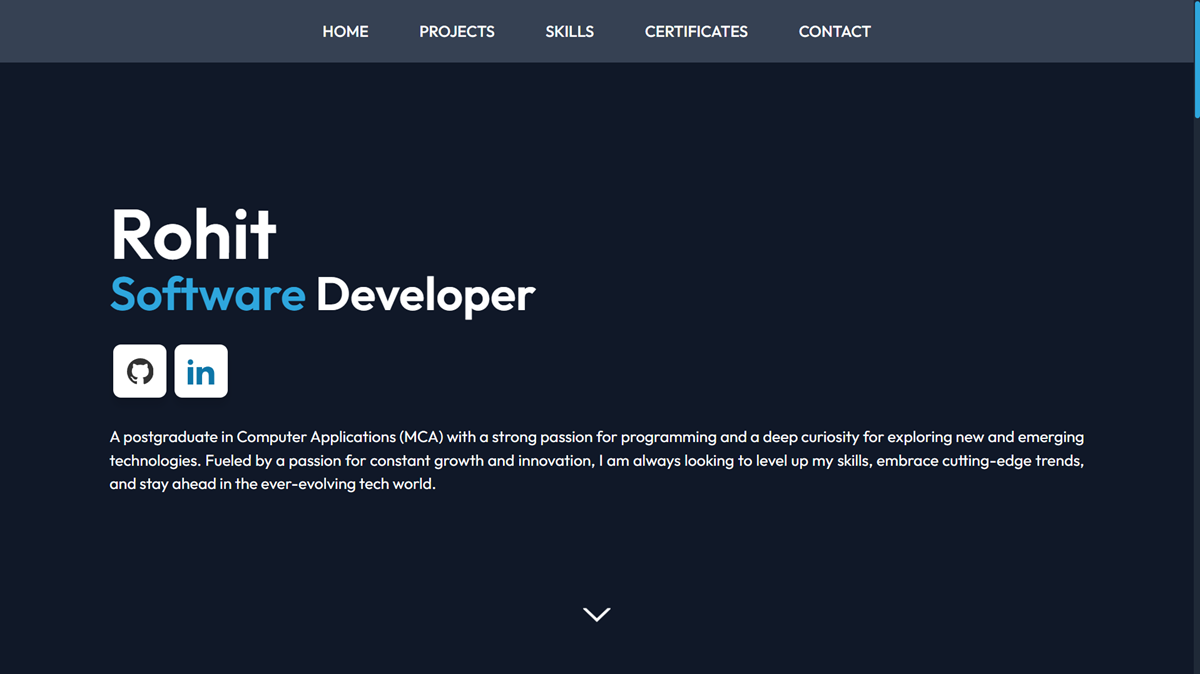
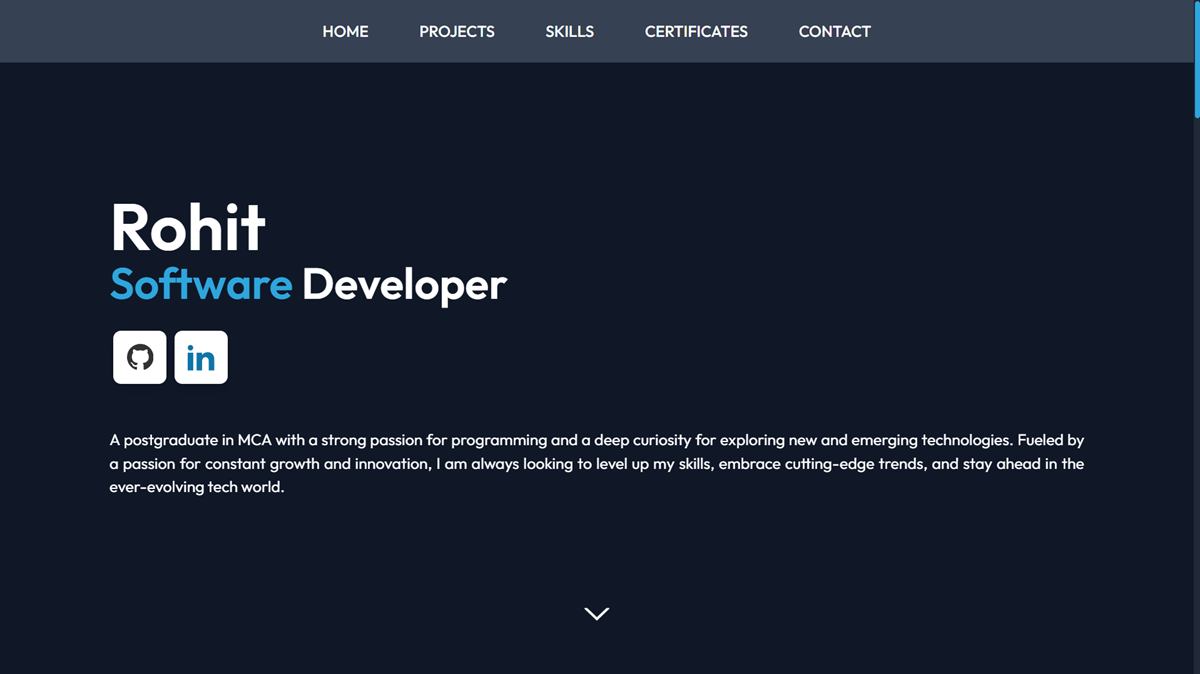
multiple updates

Changed region(s): [[0.0925, 0.6231, 0.925, 0.7478], [0.0925, 0.2804, 0.4625, 0.592], [0.4933, 0.9036, 0.5242, 0.9347]]

diff --git a/src/components/Hero.tsx b/src/components/Hero.tsx
@@ -4,11 +4,11 @@ import './Hero.css'
 const Hero:React.FC = () => {
   return (
     <div className='h-full w-full text-white flex bg-gray-900 flex-col gap-[30px] justify-center items-center md:items-start pl-[32px] pr-[32px] sm:pl-[140px] sm:pr-[140px]' id="home">
-        <h1 className='rohit text-[75px] select-none sm:text-[90px] font-semibold'>Rohit</h1>
+        <h1 className='rohit text-[72px] select-none sm:text-[84px] font-semibold'>Rohit</h1>
         
-        <h4 className='sdv text-[32px] md:text-[60px] select-none font-semibold mt-[-50px] sm:mt-[-65px]'><span className='software'>Software</span> Developer</h4>
+        <h4 className='sdv text-[32px] md:text-[56px] select-none font-semibold mt-[-50px] sm:mt-[-62px]'><span className='software'>Software</span> Developer</h4>
     
-        <div className="links mt-[-14px] text-center">
+        <div className="links mt-[-16px] text-center">
           <div className="social-links">
               <a href="https://github.com/rohitkumar893" target="_blank" rel="noopener noreferrer">
                 <div id="github" className="social-btn flex-center">
@@ -30,12 +30,12 @@ const Hero:React.FC = () => {
             </div>
 
         <div className="absolute arrow w-full flex justify-center p-0 left-0 top-[90%]">
-            <a href="#skills"><img src='arrow.png' className='h-[28px] md:h-[35px] animate-bounce' /></a>
+            <a href="#projects"><img src='arrow.png' className='h-[28px] md:h-[32px] animate-bounce' /></a>
         </div>
         </div>
         
-        <div className="div">
-          <p className='text-[20px] text-justify select-none hyphens-auto'>A postgraduate in Computer Applications (MCA) with a strong passion for programming and a deep curiosity for exploring new and emerging technologies. Fueled by a passion for constant growth and innovation, I am always looking to level up my skills, embrace cutting-edge trends, and stay ahead in the ever-evolving tech world.</p>
+        <div className="div mt-[22px]">
+          <p className='summary text-[20px] text-justify select-none hyphens-auto'>A postgraduate in MCA with a strong passion for programming and a deep curiosity for exploring new and emerging technologies. Fueled by a passion for constant growth and innovation, I am always looking to level up my skills, embrace cutting-edge trends, and stay ahead in the ever-evolving tech world.</p>
         </div>
     </div>
   )

diff --git a/src/components/Projects.tsx b/src/components/Projects.tsx
@@ -3,8 +3,8 @@ import React from 'react'
 const Projects:React.FC = () => {
   return (
     <div className='projectscont bg-gray-800 text-white flex justify-center items-center h-auto p-[150px] px-[40px] sm:px-[120px] flex-col w-full' id="projects">
-          <h1 className='text-[32px] sm:text-[36px] text-center font-bold'>PROJECTS :</h1>
-          <div className='projects flex flex-col flex-wrap justify-evenly gap-[0px] sm:gap-[70px] text-black mt-[50px]'>
+        <h1 className='text-[32px] sm:text-[36px] text-center font-bold'>PROJECTS :</h1>
+        <div className='projects flex flex-col flex-wrap justify-evenly gap-[0px] sm:gap-[70px] text-black mt-[50px]'>
             <a href="https://roomsley.vercel.app/"><div className='mt-[50px] md:ml-[-350px] mb-[40px] rotate-0 sm:rotate-357 sm:hover:rotate-360 transition h-[290px] w-[340px] sm:h-[330px] sm:w-[400px] flex flex-col justify-between items-center bg-gray-100 rounded-md hover:bg-blue-200'>
               <img src="roomsley.png" className='w-full shadow-sm'></img>
               <h1 className='text-[20px] p-[18px]'>Roomsley</h1>
@@ -16,8 +16,14 @@ const Projects:React.FC = () => {
               <h1 className='text-[20px] p-[18px]' id="portfolio">Portfolio</h1>
               <p className='mb-[20px] mt-[-8px] text-gray-600 text-[16px] sm:text-[18px]'>'Personal developer portfolio'</p>
             </div></a>
-            </div>
-          </div>
+
+            {/* <a href="https://github.com/rohitkumar893/buildmyres/"><div className='mt-[50px] md:ml-[-350px] mb-[40px] rotate-0 sm:rotate-357 sm:hover:rotate-360 transition h-[290px] w-[340px] sm:h-[330px] sm:w-[400px] flex flex-col justify-between items-center bg-gray-100 rounded-md hover:bg-blue-200'>
+              <img src="resbuilder.png" className='w-full shadow-sm'></img>
+              <h1 className='text-[20px] p-[18px]'>Resume Builder</h1>
+              <p className='mb-[20px] mt-[-8px] text-gray-600 text-[16px] sm:text-[18px]'>'Platform for building resumes'</p>
+            </div></a> */}
+        </div>
+    </div>
   )
 }
 

diff --git a/src/components/Navbar.tsx b/src/components/Navbar.tsx
@@ -1,6 +1,7 @@
 import React from "react"
 import { useState } from 'react'
 import { Menu, X } from 'lucide-react';
+import './Navbar.css'
 
 const Navbar:React.FC = () => {
     const [isOpen, setIsOpen] = useState(false);
@@ -8,7 +9,7 @@ const Navbar:React.FC = () => {
 
 
   return (
-    <div className="fixed top-0 left-0 h-16 sm:h-20 w-full bg-gray-700 flex justify-start items-center gap-25 text-lg font-medium text-white z-3">
+    <div className="navbar fixed top-0 left-0 h-16 sm:h-20 w-full bg-gray-700 flex justify-start items-center gap-25 text-lg font-medium text-white z-3">
       {/* Hamburger */}
         <div className='md:hidden ml-[24px] mt-[8px] z-[5] relative'>
           <button onClick={() => setIsOpen(!isOpen)}>
